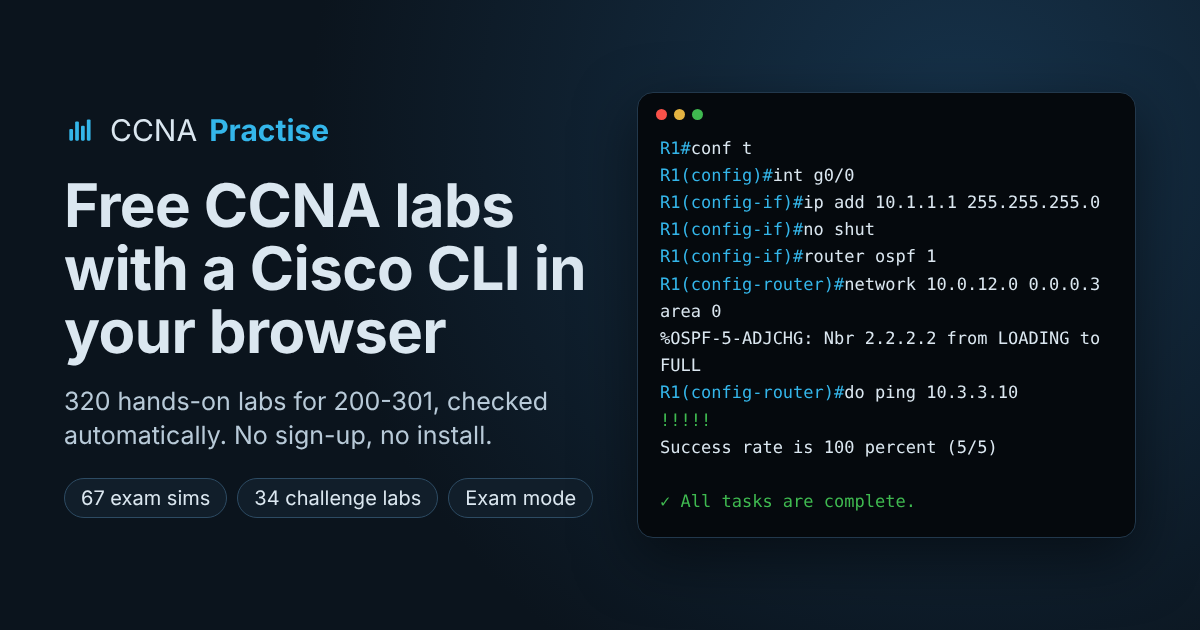
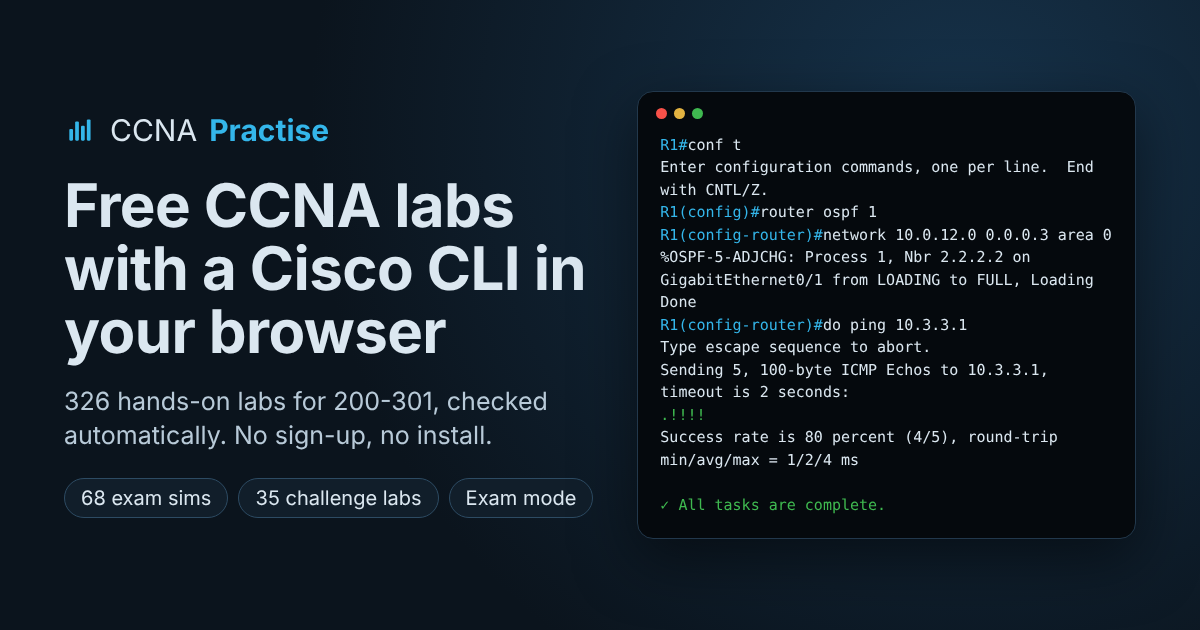
counts: 326 labs, 68 simulations, 35 challenge labs, 63 theory sets; the preview image's console is now real output (the full OSPF adjacency line, the ping header, the first echo lost to ARP); fresh README screenshots
Claude-Session: https://claude.ai/code/session_01DKqSYpXcHfRcwFMhr8jyc9

diff --git a/index.html b/index.html
@@ -4,14 +4,14 @@
 <meta charset="utf-8">
 <meta name="viewport" content="width=device-width, initial-scale=1">
 <title>CCNA Practise: free CCNA 200-301 labs with a Cisco IOS CLI in your browser</title>
-<meta name="description" content="320 free hands-on CCNA 200-301 labs in the browser. Type Cisco IOS commands into routers, switches and PCs; every task is checked against the network you built. Exam mode, challenge labs, no sign-up.">
+<meta name="description" content="326 free hands-on CCNA 200-301 labs in the browser. Type Cisco IOS commands into routers, switches and PCs; every task is checked against the network you built. Exam mode, challenge labs, no sign-up.">
 <meta name="theme-color" content="#0b141d">
 <meta name="build" content="dev">
 <link rel="icon" href="favicon.svg" type="image/svg+xml">
 <meta property="og:type" content="website">
 <meta property="og:site_name" content="CCNA Practise">
 <meta property="og:title" content="CCNA Practise: free CCNA labs with a Cisco IOS CLI in your browser">
-<meta property="og:description" content="320 hands-on labs for CCNA 200-301: routers, switches and PCs you configure from the CLI, checked automatically. Exam mode and challenge labs. Free, no sign-up.">
+<meta property="og:description" content="326 hands-on labs for CCNA 200-301: routers, switches and PCs you configure from the CLI, checked automatically. Exam mode and challenge labs. Free, no sign-up.">
 <meta property="og:url" content="https://arpwatcher.github.io/CCNA-Practise-/">
 <meta property="og:image" content="https://arpwatcher.github.io/CCNA-Practise-/og.png">
 <meta property="og:image:width" content="1200">

diff --git a/README.md b/README.md
@@ -4,7 +4,7 @@
 
 **Free CCNA 200-301 labs with a Cisco IOS command line, right in your browser.**
 
-320 hands-on labs · 67 exam-style simulations · 34 challenge labs · 58 theory question sets · exam mode · no sign-up, no install
+326 hands-on labs · 68 exam-style simulations · 35 challenge labs · 63 theory question sets · exam mode · no sign-up, no install
 
 ### [Open the labs →](https://arpwatcher.github.io/CCNA-Practise-/)
 
@@ -72,8 +72,8 @@ answer passes.
 | IPv6 | addressing, EUI-64, link-local, SLAAC, static routes | 10 |
 | Device management | IOS image, boot system, config-register, TFTP | 4 |
 | Host OS commands | Windows, Linux and macOS: ipconfig, ip addr, ifconfig, routing tables, ARP, DNS | 24 |
-| Exhibit questions | subnetting (VLSM, drills, host settings), route summarization, IPv6 compression, EtherChannel modes, STP election, wildcard masks, ACL placement, OSPF cost, CDP vs LLDP, port security modes, IPv6 static routes, TCP windowing, interface errors, NAT terms, OSPF LSA types, PoE, Layer 3 switches, wireless signal and roaming, IPv6 subnetting, address types and Neighbor Discovery, STP port states and timers, OSPF neighbor states, passwords and hashing, control/data/management planes, private ranges and APIPA, ports and TCP/UDP, DHCP, DNS, SNMP and NTP, syslog, FHRP, 802.1X, WPA/WPA2/WPA3, WLAN creation in the WLC GUI, AP modes, 2.4 GHz channels, threats, VPNs, WAN links, cloud, cabling, architectures, virtualization, SD-Access, REST, JSON, Ansible and other config tools, QoS | 58 |
-| Challenge labs | bigger topologies, several topics, faults and questions | 34 |
+| Exhibit questions | subnetting (VLSM, drills, host settings), show version, show standby, show interfaces trunk, MAC and ARP tables, a topology from CDP, route summarization, IPv6 compression, EtherChannel modes, STP election, wildcard masks, ACL placement, OSPF cost, CDP vs LLDP, port security modes, IPv6 static routes, TCP windowing, interface errors, NAT terms, OSPF LSA types, PoE, Layer 3 switches, wireless signal and roaming, IPv6 subnetting, address types and Neighbor Discovery, STP port states and timers, OSPF neighbor states, passwords and hashing, control/data/management planes, private ranges and APIPA, ports and TCP/UDP, DHCP, DNS, SNMP and NTP, syslog, FHRP, 802.1X, WPA/WPA2/WPA3, WLAN creation in the WLC GUI, AP modes, 2.4 GHz channels, threats, VPNs, WAN links, cloud, cabling, architectures, virtualization, SD-Access, REST, JSON, Ansible and other config tools, QoS | 63 |
+| Challenge labs | bigger topologies, several topics, faults and questions | 35 |
 | Legacy (not on 200-301) | RIP, EIGRP, VTP | 5 |
 
 Labs marked **sim** are short scenarios like the exam simulations. The
